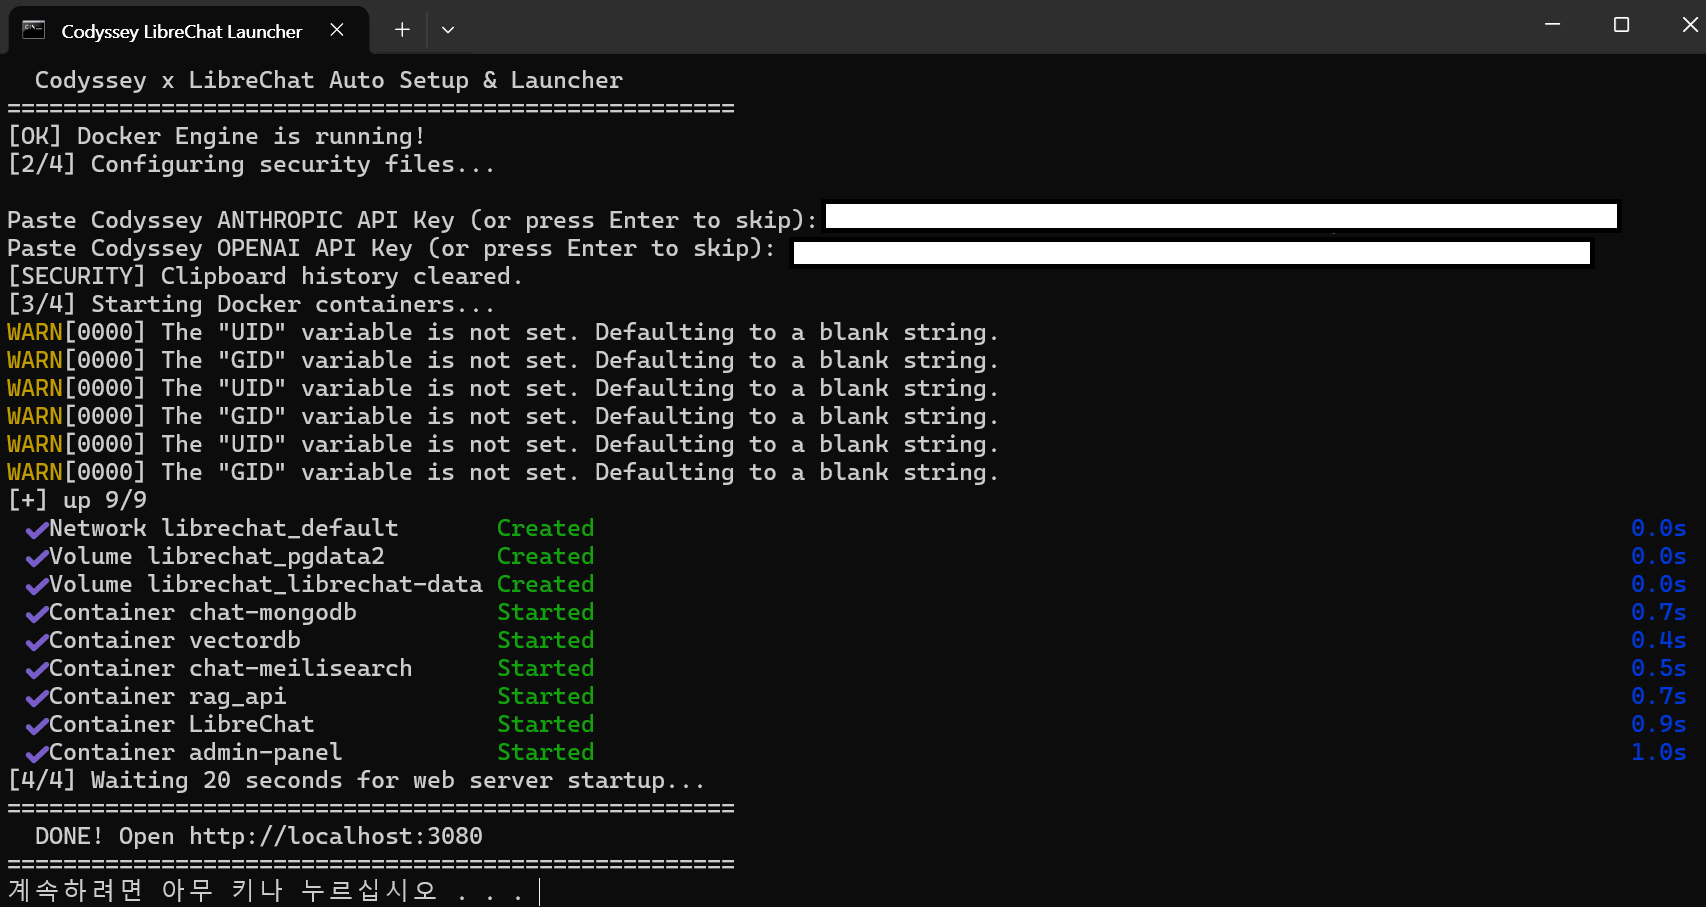
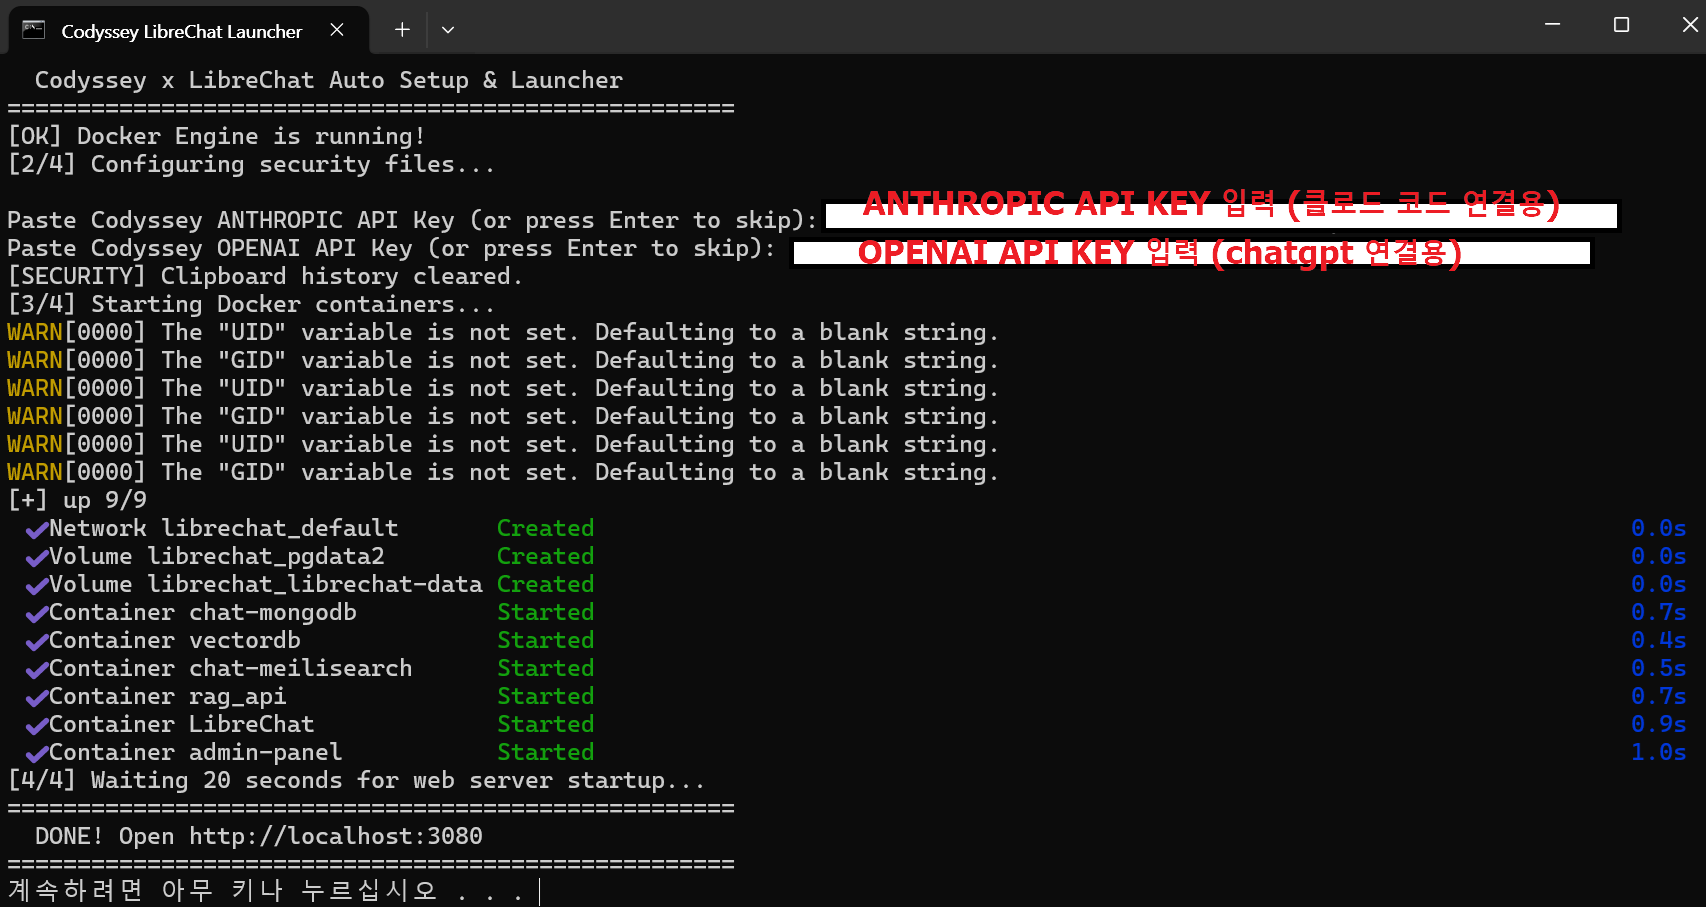
fix: auto-detect Docker Desktop path across user directories and add Git check
- Search Docker Desktop.exe across Program Files, LocalAppData, and relative CLI paths
- Add Git installation check with automatic download page redirect if missing

Changed region(s): [[0.4971, 0.1852, 0.932, 0.3087]]

diff --git a/README.md b/README.md
@@ -63,7 +63,7 @@
 
 ## 4. 사전 준비물 및 레포지토리 구성
 
-* **사전 설치 필요:** [Git for Windows](https://git-scm.com/)
+* **사전 설치 필요:** [Git for Windows](https://git-scm.com/), [Docker Desktop](https://www.docker.com/products/docker-desktop/)
 * **레포지토리 내부 구조:**
 
 ```text
